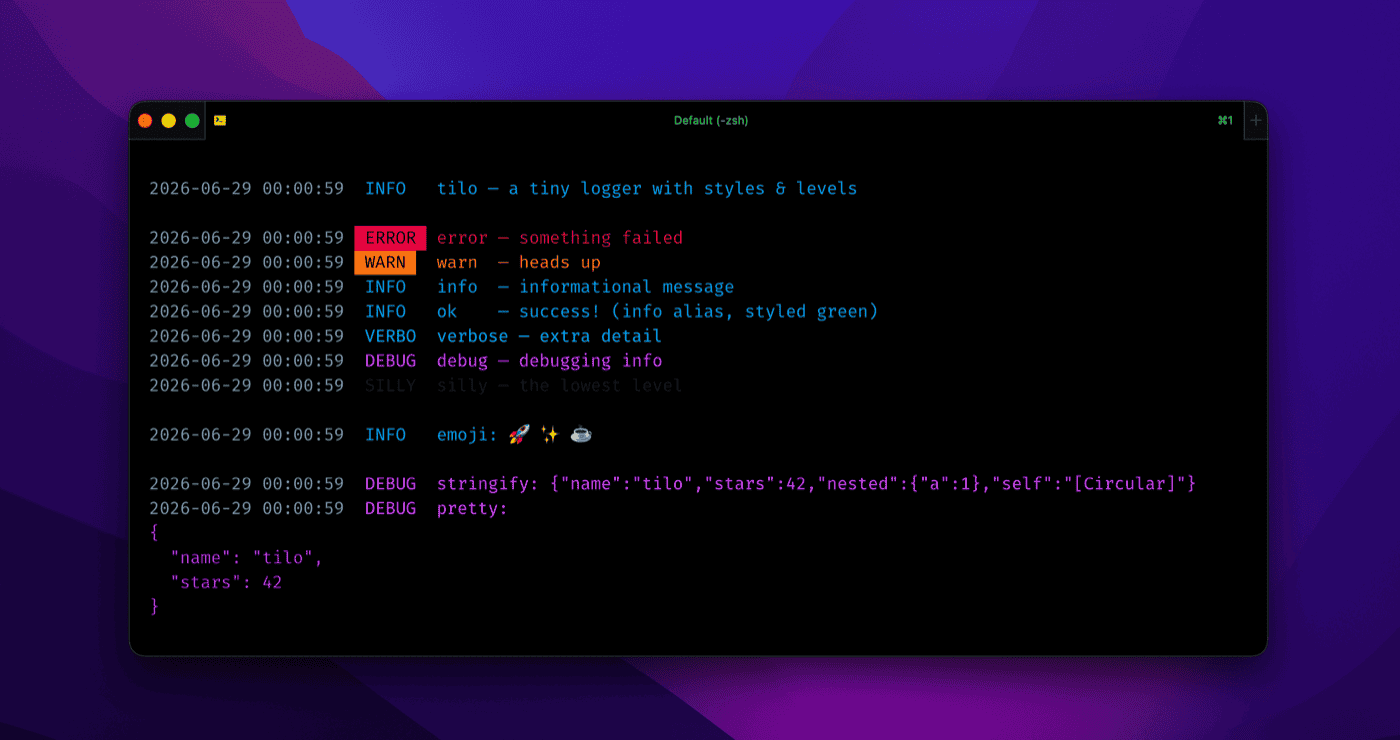
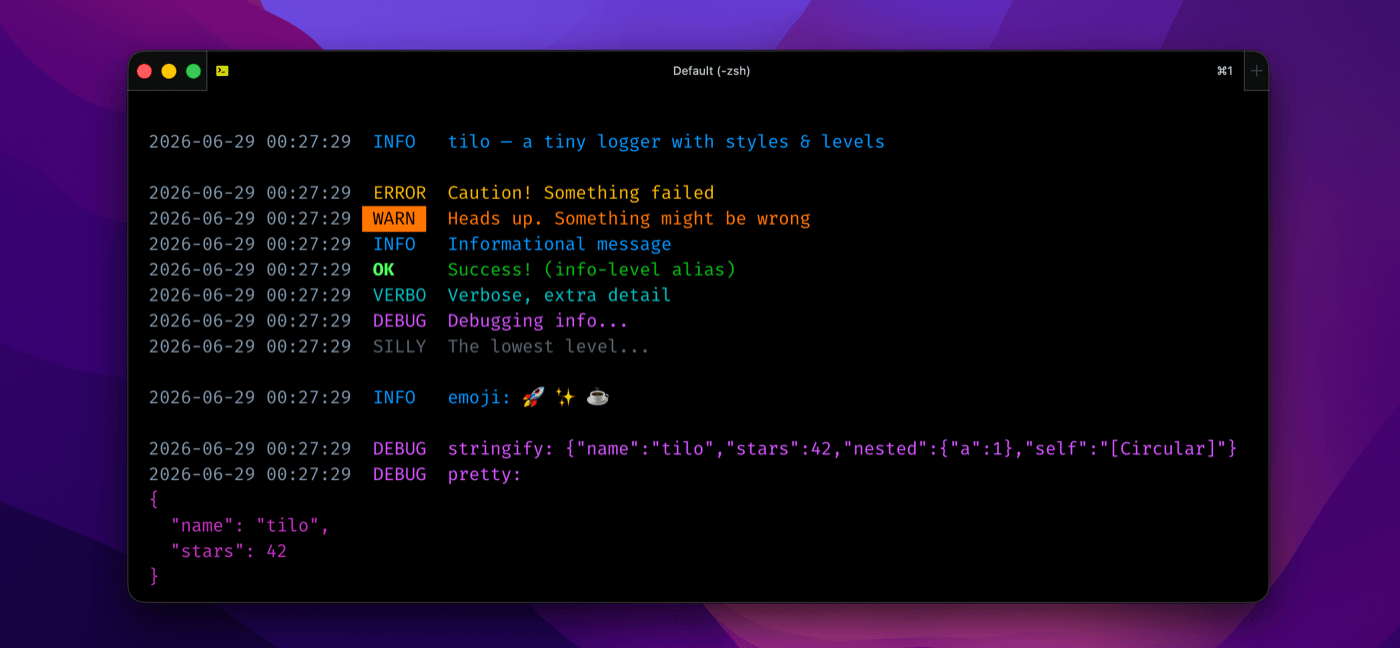
docs(readme): refresh output screenshot (OK badge); add cleanStack image

diff --git a/README.md b/README.md
@@ -95,6 +95,10 @@ const tilo = new Tilo({ cleanStack: true });            // drop internal/native 
 const t2 = new Tilo({ cleanStack: ['node_modules'] });  // drop frames matching keywords
 ```
 
+<p align="center">
+  <img src="https://raw.githubusercontent.com/onury/tilo/master/tilo-stack.png" alt="tilo cleanStack — before & after" width="100%" />
+</p>
+
 ### Emoji
 
 Resolve an emoji by name (falls back to the `:name:` text on CI or when styles are off):
